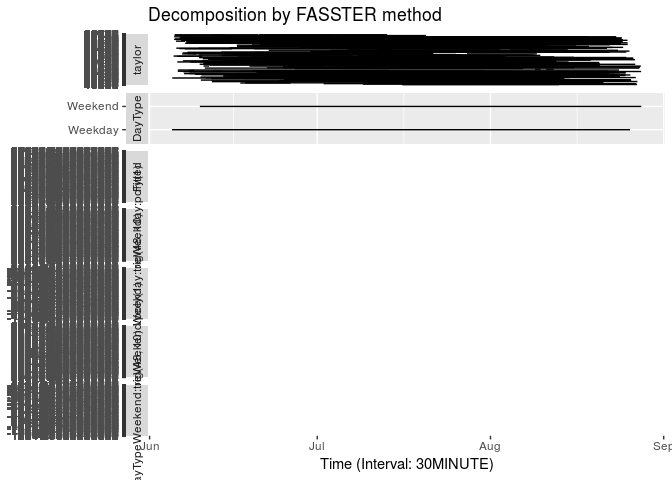
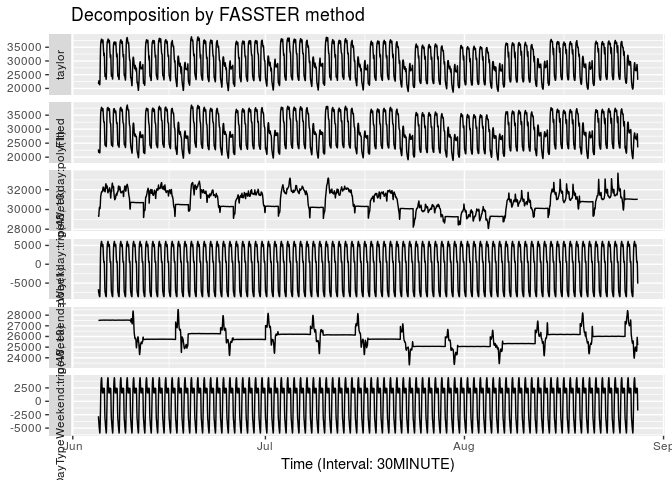
Fixed complex decomposition plot

diff --git a/README.md b/README.md
@@ -77,16 +77,6 @@ fit %>% autoplot
 
 ``` r
 fit_switch %>% autoplot
-#> geom_path: Each group consists of only one observation. Do you need to
-#> adjust the group aesthetic?
-#> geom_path: Each group consists of only one observation. Do you need to
-#> adjust the group aesthetic?
-#> geom_path: Each group consists of only one observation. Do you need to
-#> adjust the group aesthetic?
-#> geom_path: Each group consists of only one observation. Do you need to
-#> adjust the group aesthetic?
-#> geom_path: Each group consists of only one observation. Do you need to
-#> adjust the group aesthetic?
 ```
 
 ![](man/figure/decompose-complex-1.png)
